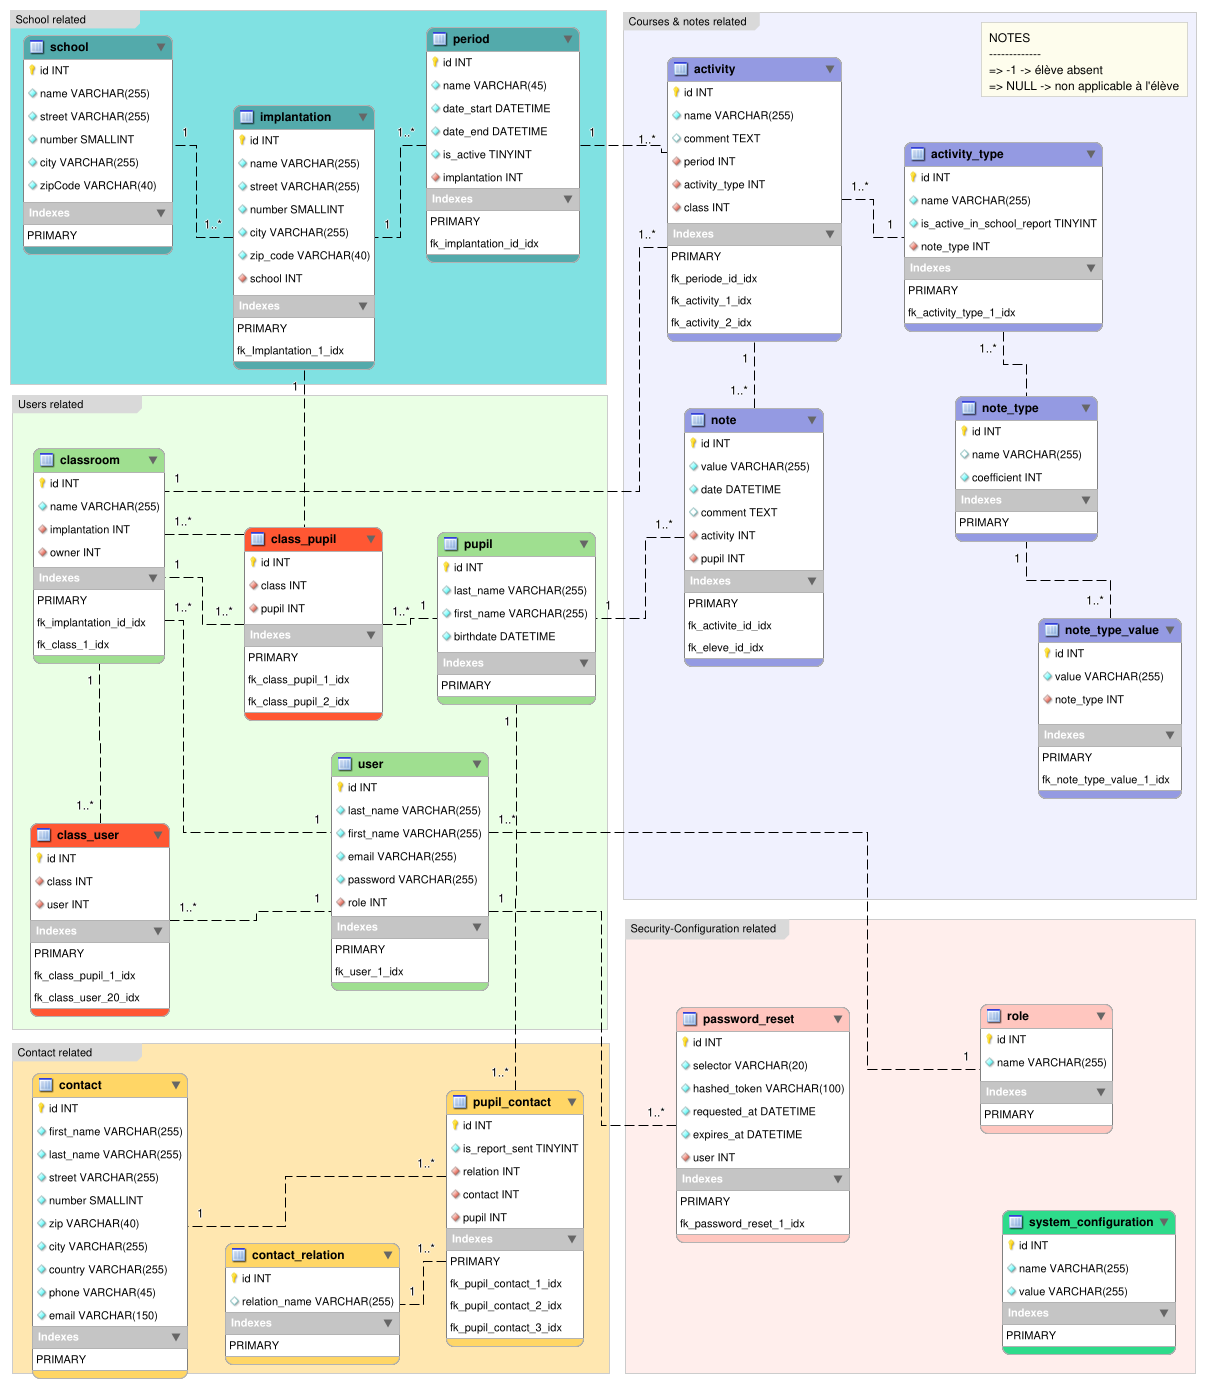
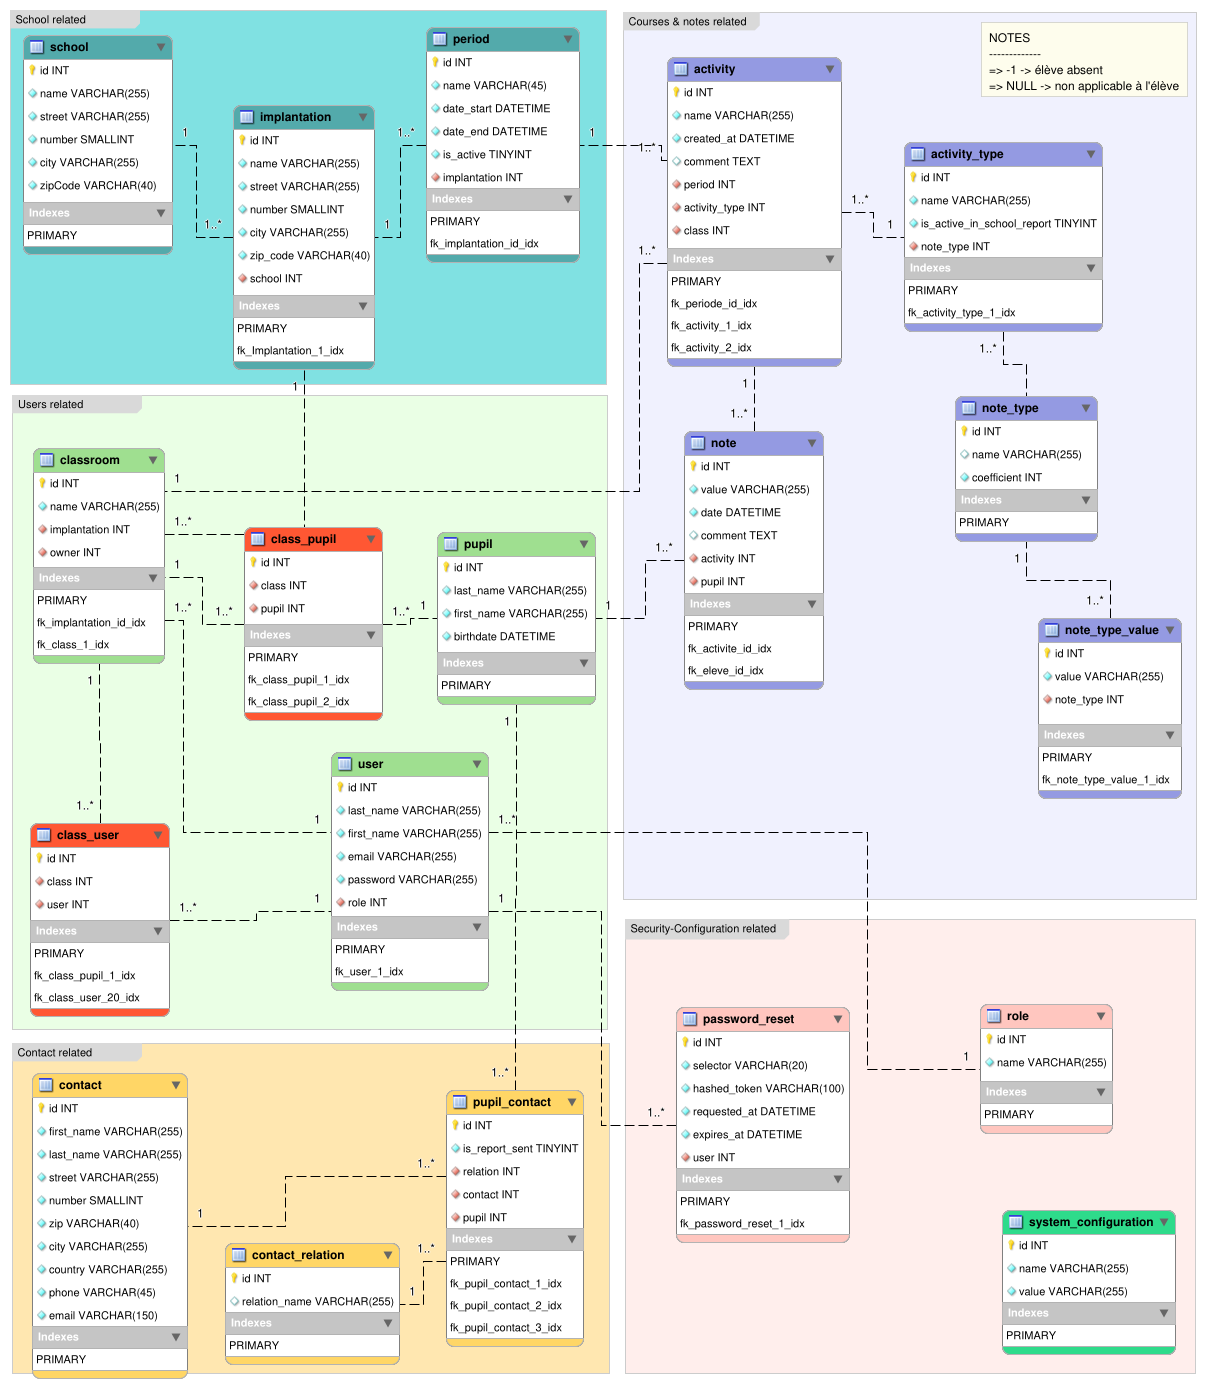
Added activity creation date.

Changed region(s): [[0.5522, 0.0929, 0.7056, 0.4957]]

diff --git a/src/Entity/Activity.php b/src/Entity/Activity.php
@@ -52,6 +52,11 @@ class Activity
      */
     private ArrayCollection $notes;
 
+    /**
+     * @ORM\Column(type="datetime")
+     */
+    private \DateTimeInterface $created_at;
+
 
 
     public function __construct()
@@ -192,6 +197,24 @@ class Activity
             }
         }
 
+        return $this;
+    }
+
+    /**
+     * @return \DateTimeInterface|null
+     */
+    public function getCreatedAt(): ?\DateTimeInterface
+    {
+        return $this->created_at;
+    }
+
+    /**
+     * @param \DateTimeInterface $createdAt
+     * @return $this
+     */
+    public function setCreatedAt(\DateTimeInterface $createdAt): self
+    {
+        $this->created_at = $createdAt;
         return $this;
     }
 }
